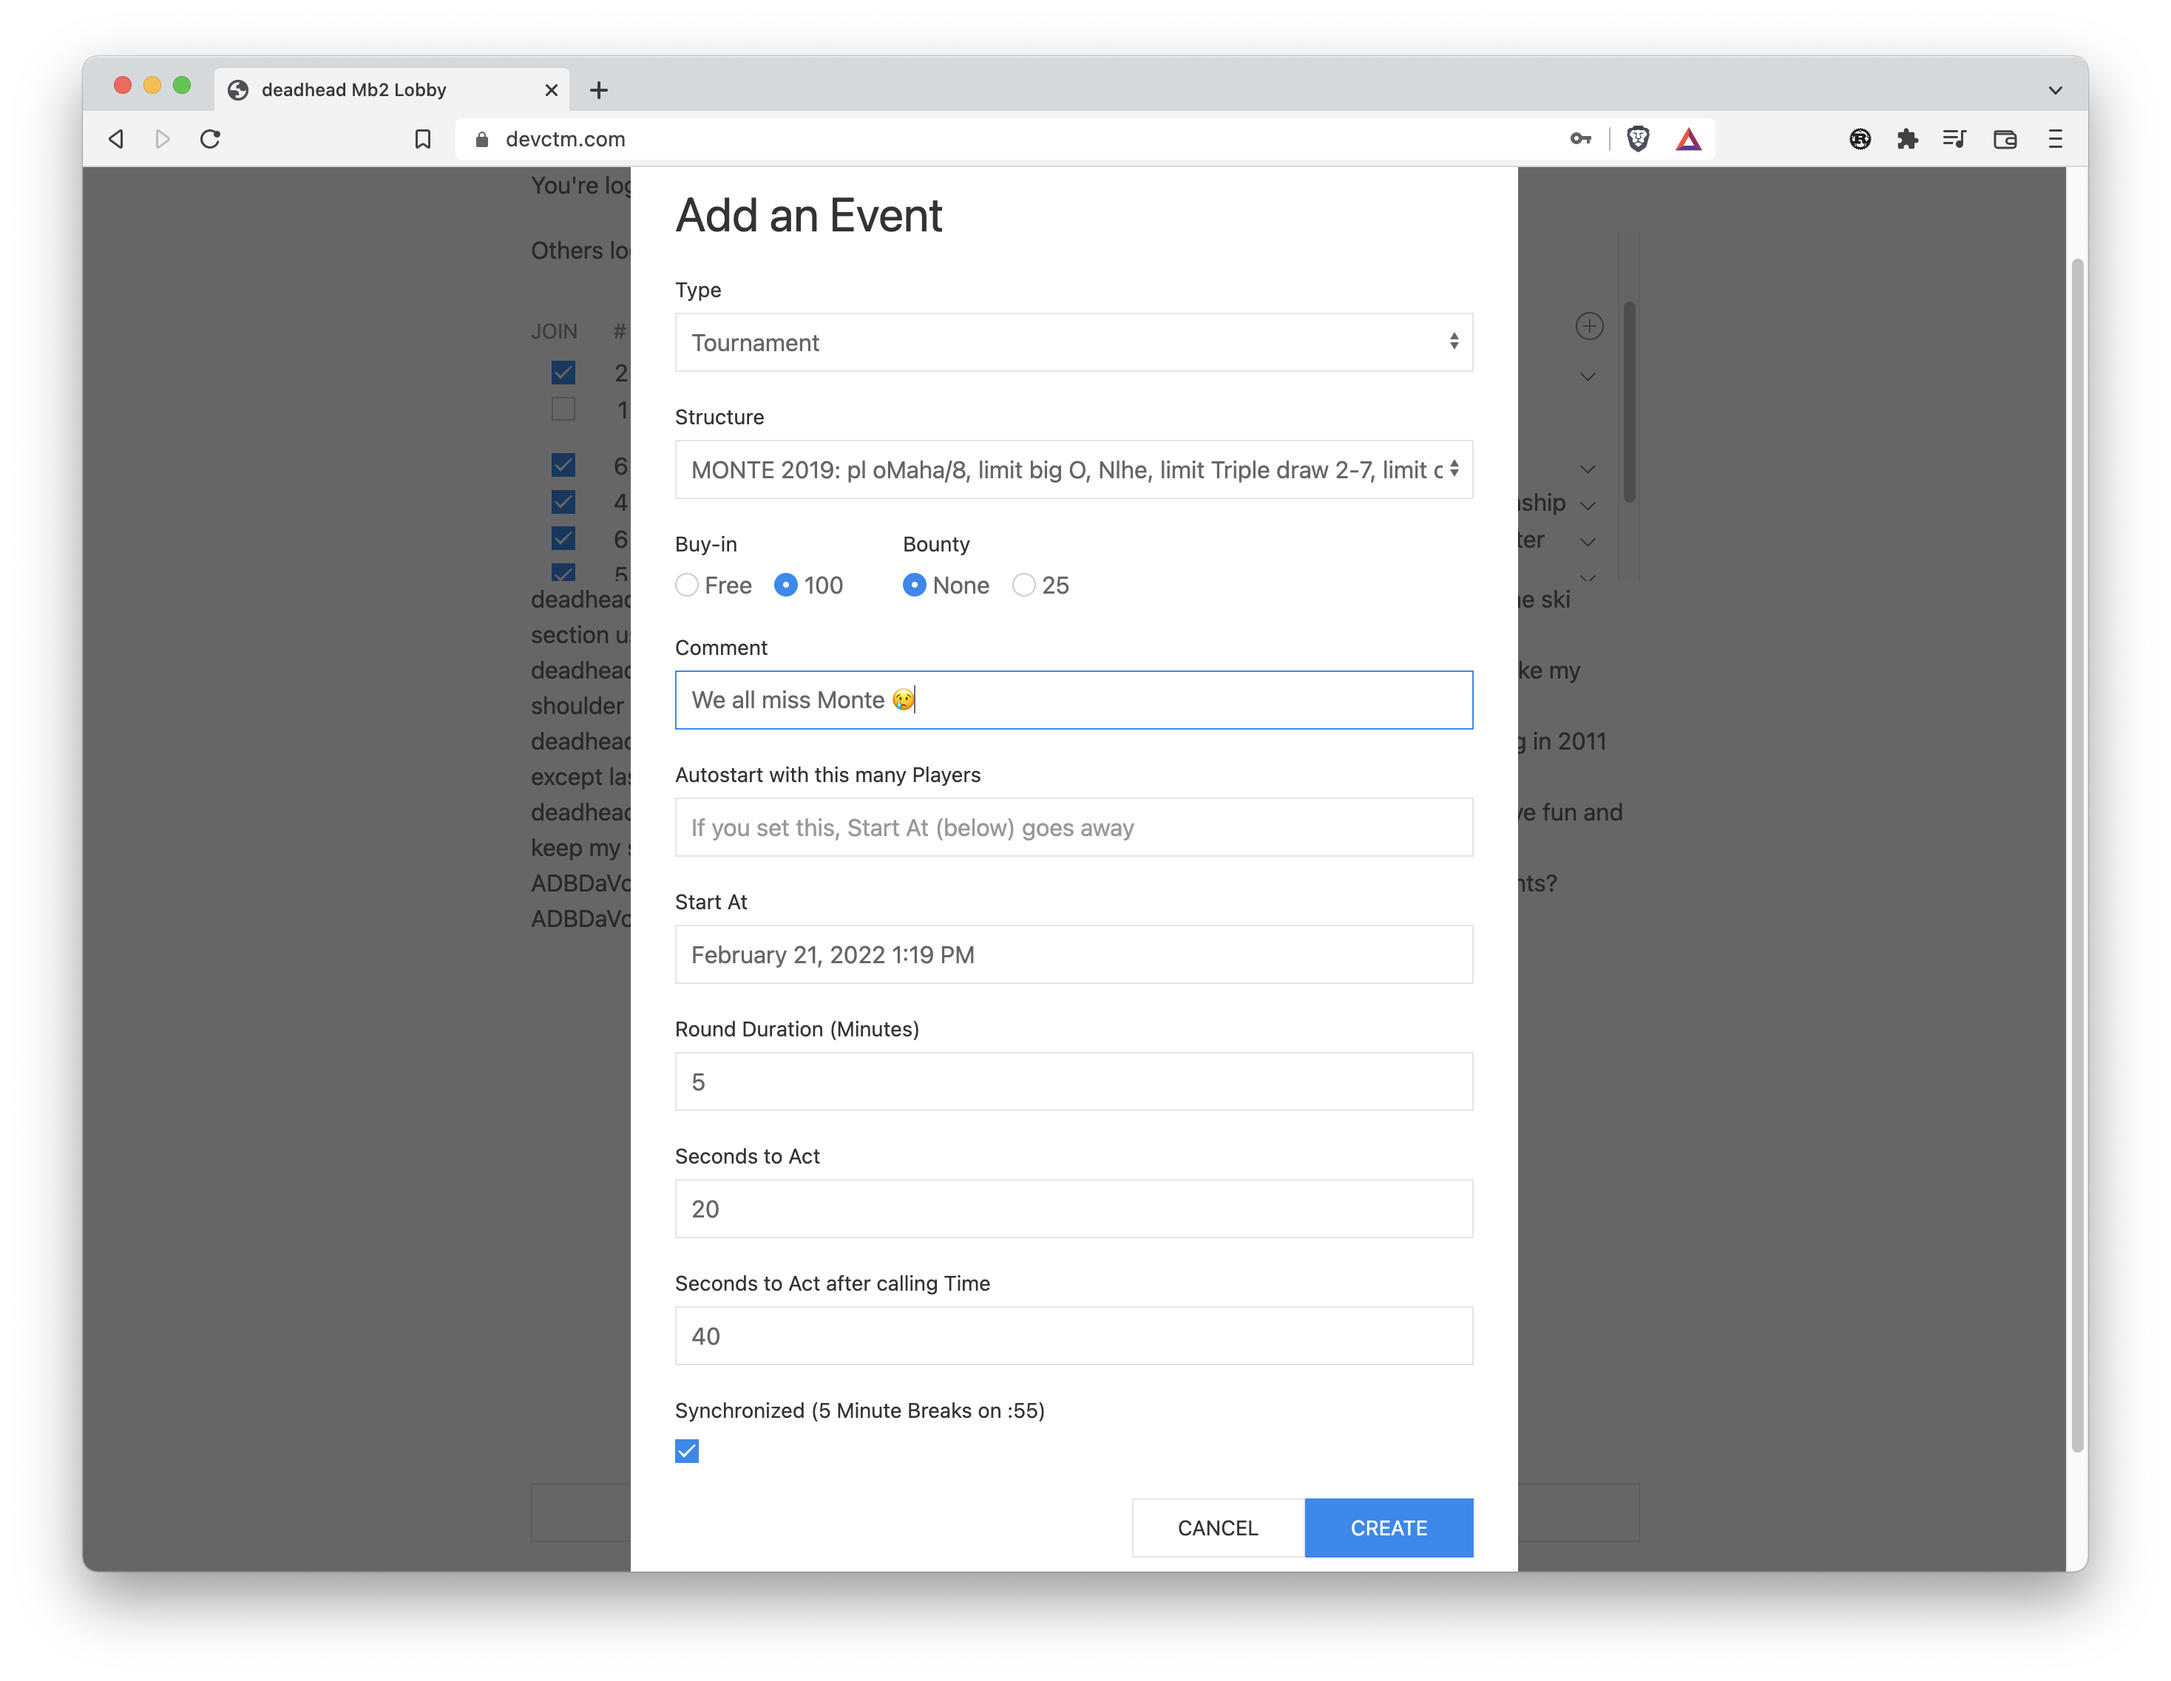
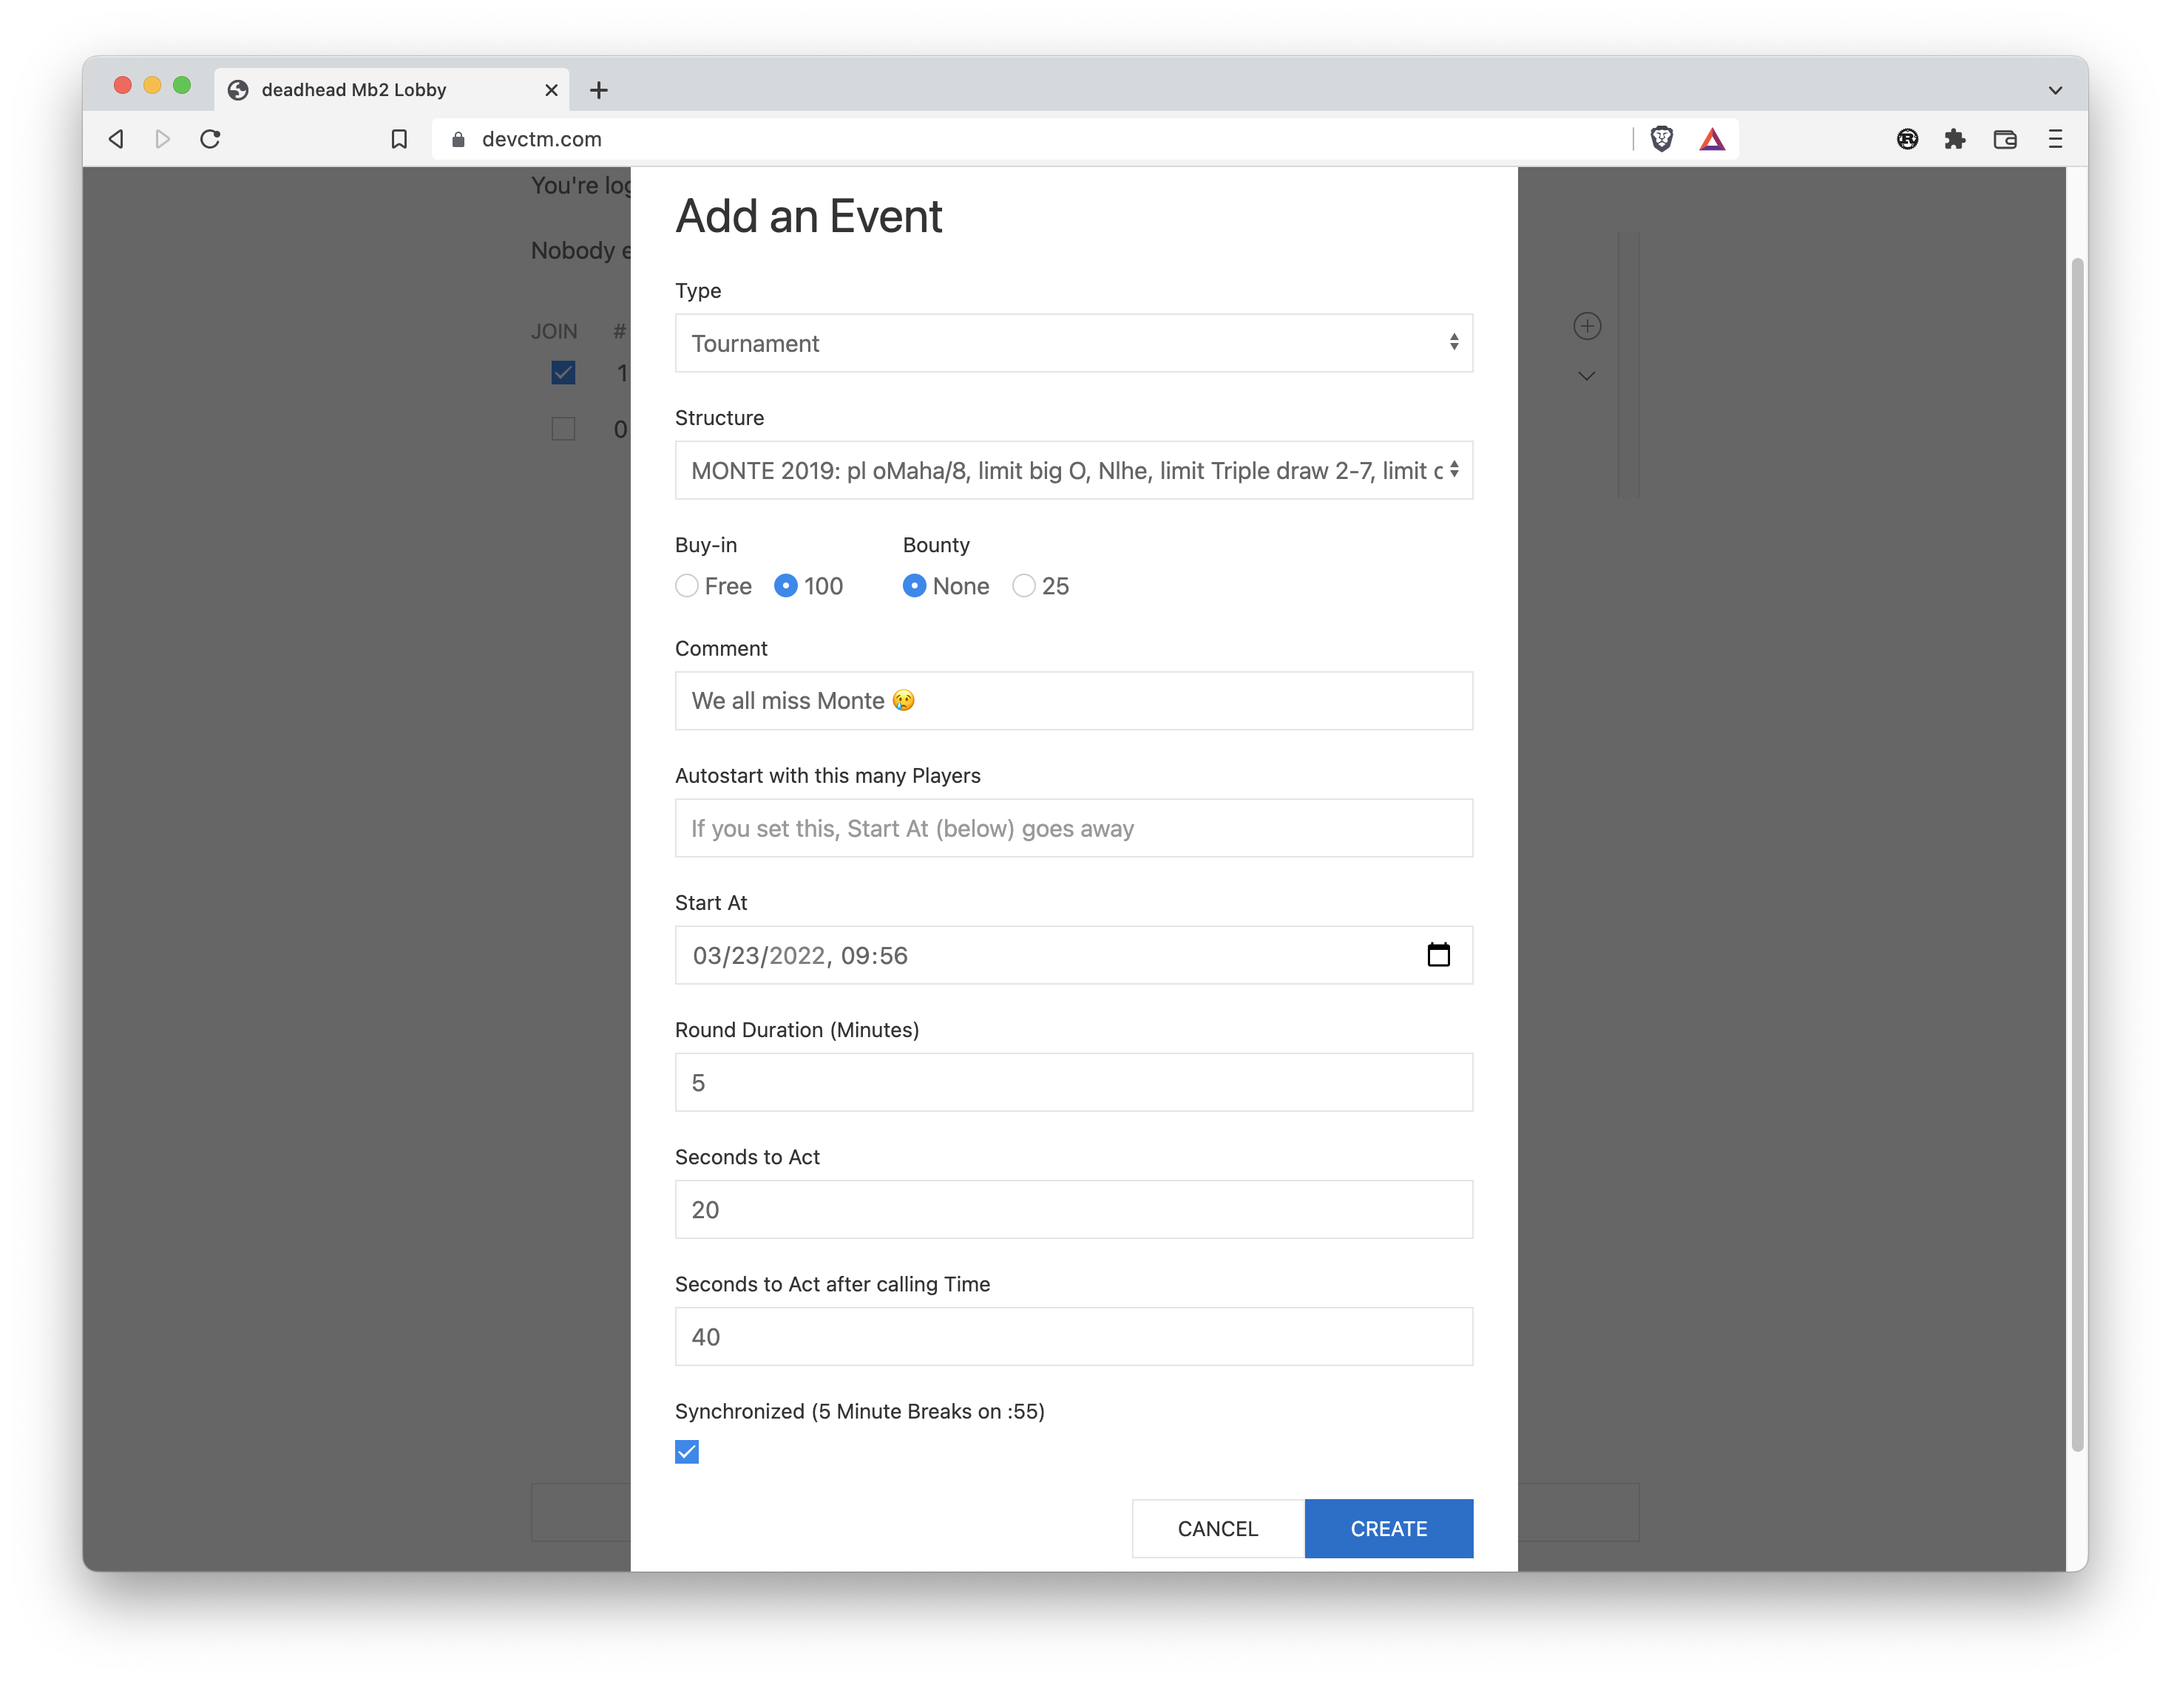
[Feat] removes the no-longer-needed date / time picker complaint.

diff --git a/src/lobby/new_event.md b/src/lobby/new_event.md
@@ -50,22 +50,8 @@ You can only either start by `Autostart` or `Start At`, not both.
 Start At is in the same timezone as upcoming tournaments are displayed in.
 That's whatever your browser thinks your timezone is.  The first time
 you bring up the "Add a Tournament" dialog, "Start At" is pre-populated
-with a value that is ten minutes into the future[^1].  However, after that,
+with a value that is ten minutes into the future.  However, after that,
 the dialog simply remembers whatever value was in that field previously.
-
-Unfortunately, mb2 is currently ridiculously unforgiving about the
-format of this string. It must be the English full name of the month
-with the first letter capitalized, a single space, the numeric day of
-the month, a single space, the four-digit year, a single space, the
-hours (using a 12-hour clock), a colon, two digits of minutes, a
-single space and then either `AM` or `PM`. E.g.,
-
-> `March 7, 2022 7:05 AM`
-
-Furthermore, if you deviate from that pattern, mb2 will create a
-tournament with a start at that is not the one you want.  Yes, this is
-incredibly poor form and [will be
-fixed](https://github.com/ctm/mb2-doc/issues/908) before "too long".
 
 If the lobby observes that you've won a tournament, then the next time
 you create a tournament, Start At will be pre-populated with the same
@@ -120,10 +106,3 @@ Break Duration in Minutes" setting.  However, the duration of a break
 is like the duration of a round in that it can start in the middle of
 a hand. The players who are still in the hand still need to finish the
 hand.
-
-[^1]: Since it is the tradition for the winner of the evening
-tournament to pick the following evening's structure and for the
-winner of the night tournament to similarly pick the following night's
-structure, [eventually mb2 will know
-this](https://github.com/ctm/mb2-doc/issues/909) and make that the
-default, when appropriate.
